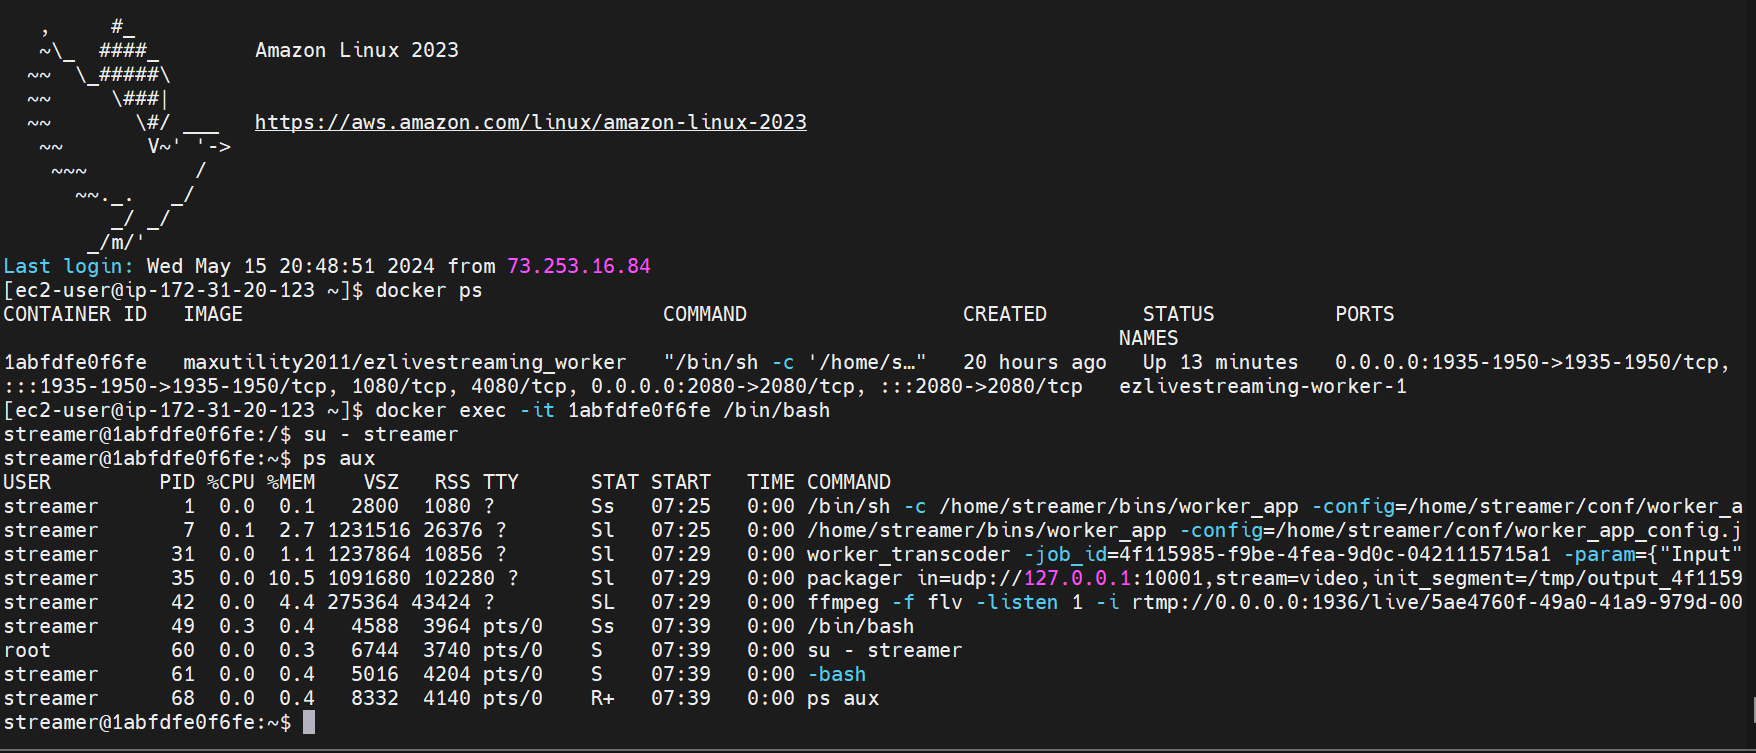
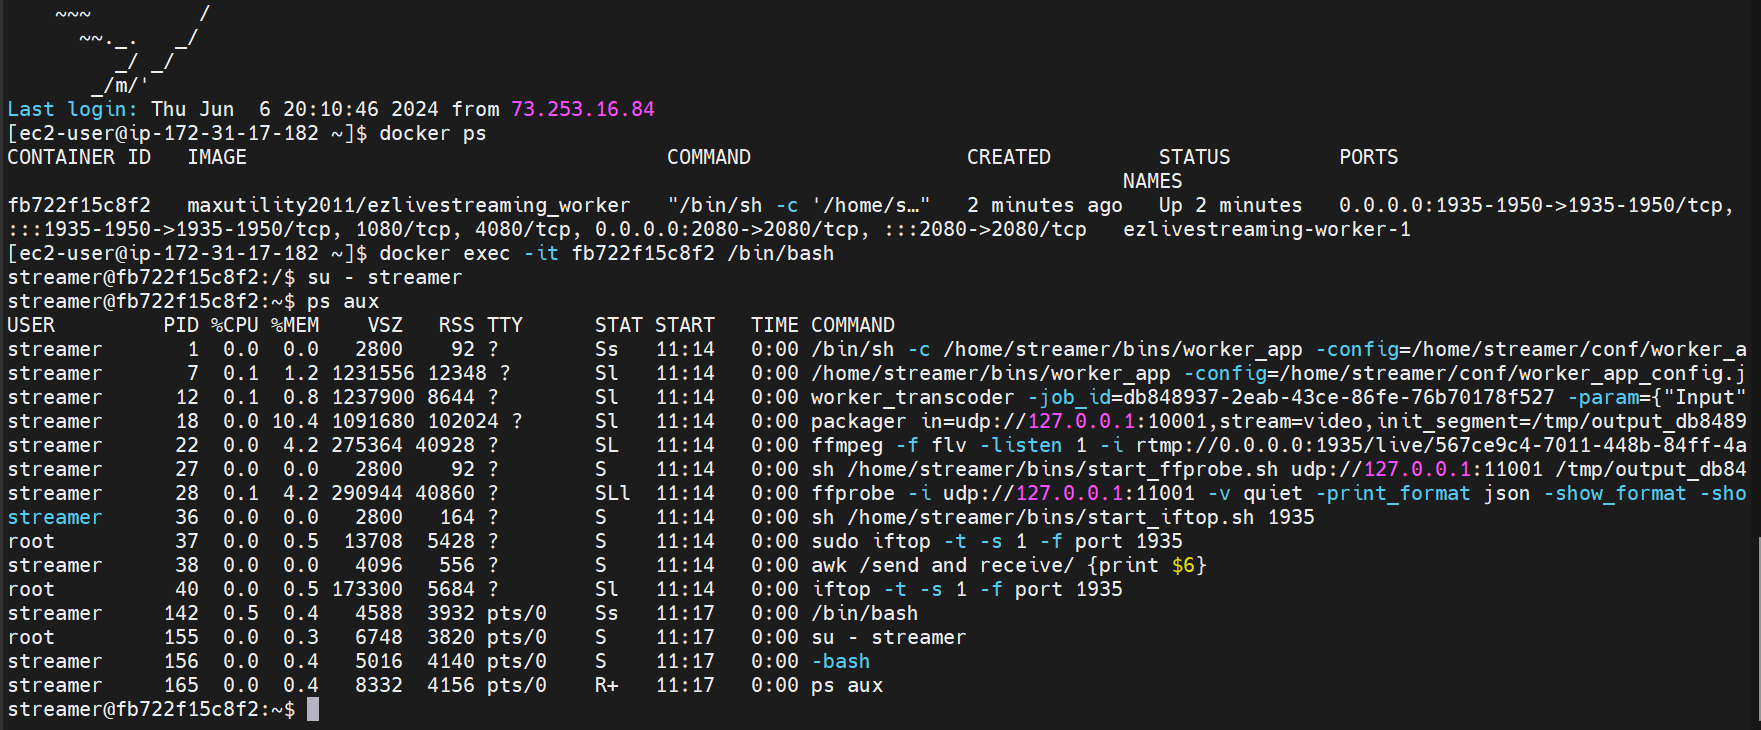
more readme update

diff --git a/worker/utils/cpuutil_reader.go b/worker/utils/cpuutil_reader.go
@@ -1,0 +1,30 @@
+package main
+
+import (
+    //"strconv"
+    "fmt"
+    "regexp"
+    "strings"
+    //"os"
+    "os/exec"
+    "flag"
+)
+
+func main() {
+    pidPtr := flag.String("pid", "", "process ID to monitor")
+    flag.Parse()
+
+    cpuReaderCmd := exec.Command("sh", "read_cpuutil.sh", *pidPtr)
+    out, err := cpuReaderCmd.CombinedOutput()
+    if err != nil {
+		fmt.Printf("Errors starting cpuReader. Error: %v, iftop output: %s", err, string(out))
+	} else {
+		ps_output := string(out)
+		//lines := strings.Split(ps_output, "\n")
+		fmt.Printf("ps output: %s\n", ps_output)
+		re := regexp.MustCompile(".[0-9]") // CPU util is a float, so match all the digits and "."
+        fmt.Println("FindAllString", re.FindAllString(ps_output, -1))
+		r := strings.Join(re.FindAllString(ps_output, -1), "")
+        fmt.Printf("CPU util: %s\n", r)
+    }
+}

diff --git a/README.md b/README.md
@@ -38,7 +38,7 @@ ezLiveStreaming consists of 5 microservices that can be independently scaled,
 ## Live stream management workflow
 ![screenshot](diagrams/architecture_diagram.png)
 
-The API server exposes API endpoints to users for submitting live job requests and managing their live channels. The API server receives job requests from users and sends them to the job scheduler via a **job queue** (**AWS Simple Queue Service**). The job scheduler receives a new job request from the job queue, picks a live worker from the worker cluster then assigns the new job to it. The selected live worker launches ffmpeg/shaka packager instances to run the live channel. For live jobs with DRM protection configured, the API server obtains DRM encrypt (decrypt) key from ezKey_server, pass it to Shaka packager along with other DRM configurations for stream encryption. The API server uses a stateless design which the server does not maintain any in-memory states of live jobs. Instead, all the states are kept in Redis data store. 
+The API server exposes API endpoints to users for submitting 呢哇live job requests and managing their live channels. The API server receives job requests from users and sends them to the job scheduler via a **job queue** (**AWS Simple Queue Service**). The job scheduler receives a new job request from the job queue, picks a live worker from the worker cluster then assigns the new job to it. The selected live worker launches ffmpeg/shaka packager instances to run the live channel. For live jobs with DRM protection configured, the API server obtains DRM encrypt (decrypt) key from ezKey_server, pass it to Shaka packager along with other DRM configurations for stream encryption. The API server uses a stateless design which the server does not maintain any in-memory states of live jobs. Instead, all the states are kept in Redis data store. 
 
 ## Live stream data flow
 
@@ -74,7 +74,7 @@ The microservices of ezLiveStreaming runs on a base docker image built out of Ub
 Launch two EC2 instances, one for running ezLiveStreaming's management services such as API server, job scheduler, DRM key server and Redis, and another one for running a live transcoding worker. The management services do not eat a lot of resource so they can run on relatively low-end instances (I use a t2-micro one which is free-tier eligible). The live worker services could run multiple live ABR transcoding jobs so they must run on a more powerful instance (I use a c5-large one). But if you only run a single live job with low bitrate output, you may also use less powerful instances.
 
 ## Step 2: Get ezLiveStreaming source
-On both management and worker servers, check out the source code from github.
+On both management and worker servers, get the source code from github.
 ```
 git clone https://github.com/maxutility2011/ezLiveStreaming.git
 ```
@@ -111,7 +111,7 @@ In [scheduler/config.json](scheduler/config.json), put your own job queue name i
 
 No change is needed in *drm_key_server/config.json*.
 
-In [worker/app/worker_app_config.json](worker/app/worker_app_config.json), put in your own *SchedulerUrl*. The host name part of *SchedulerUrl* is the host name or IP address of your management server. The network port part of *SchedulerUrl* is 3080 by default, otherwise it must match that scheduler port configured in [scheduler/config.json](scheduler/config.json). You can leave other configuration options as is.
+In [worker/app/worker_app_config.json](worker/app/worker_app_config.json), put in your own *SchedulerUrl*. *SchedulerUrl* allows the worker to find the job scheduler. The host name part of *SchedulerUrl* is the host name or IP address of your management server. The network port part of *SchedulerUrl* is 3080 by default, otherwise it must match that scheduler port configured in [scheduler/config.json](scheduler/config.json). If you have a cluster of job scheduler running behind a load balancer, you can put the URL of the load balance in *SchedulerUrl*. You can leave other configuration options as is. 
 
 ## Step 6: Network setup
 As a general note, please ensure all the url, hostname/ip_address, network port you put into the configurations files are accessible from other services. For example, make sure the worker service can reach the job scheduler service using the configured *SchedulerUrl* ([worker/app/worker_app_config.json](worker/app/worker_app_config.json)). Please also make sure any configured network ports are open in the firewall. 
@@ -168,9 +168,9 @@ The demo UI provides a list of job request templates. Please choose one and the 
 - hls live without drm 
 - hls live with av1 codec
 
-After the job request is loaded in the editor, put your S3 bucket name in *S3_output.Bucket* of the live job request, then click the "create" button. This will send a create_job request to the api_server to create a new live channel. The server response will be shown on the bottom-left corner of the UI which includes the details of the new job. Among other things, you will see a job ID, e.g., "4f115985-f9be-4fea-9d0c-0421115715a1". The bottom-right corner will show the essential information needed to set up the live RTMP input feed and to play the live HLS/DASH stream after the live RTMP input is up. If you want to enable clear-key DRM, you can copy-paste the content of [sample_live_job.json](sample_live_job.json) to create a protected live channel. Detail about DRM setup will be explained later.
+After the job request is loaded in the editor, put your S3 bucket name in *S3_output.Bucket* of the live job request, then click the "create" button. This will send a create_job request to the api_server to create a new live channel. The server response will be shown on the bottom-left corner of the UI which includes the details of the new job. Among other things, you will see a job ID, e.g., "4f115985-f9be-4fea-9d0c-0421115715a1". The bottom-right corner will show the essential information needed to set up the live RTMP input feed and to play the live HLS/DASH stream after the live RTMP input is up. 
 
-![screenshot](diagrams/demo_step2.png)
+![screenshot](diagrams/demo_create_job.png)
 
 On the backend, ezLiveStreaming will create a new worker for your new channel. On the worker server, verify the worker container is running,
 ```
@@ -208,10 +208,13 @@ streamer      61  0.0  0.4   5016  4204 pts/0    S    07:39   0:00 -bash
 streamer      68  0.0  0.4   8332  4140 pts/0    R+   07:39   0:00 ps aux
 ```
 If the new channel is up and running, you should see 4 worker processes running: 
-- worker_app
-- worker_transcoder
-- packager (Shaka packager)
-- ffmpeg
+- worker_app: long-living daemon process for worker and live job management
+- worker_transcoder: a one per job process for coordinating live media ingesting, transcoding, packaging and stream file upload
+- packager (Shaka packager): the live media packager
+- ffmpeg: the live media transcoder
+- start_iftop.sh: monitoring ingress bandwidth usage
+- start_cpuutil_reader.sh: monitoring cpu usage by ffmpeg transcoder
+- ffprobe: analyzing the live input stream and generating input info file
 
 The ffmpeg process is ready to receive your live RTMP input stream.
 ![screenshot](diagrams/verify_new_channel.png)
